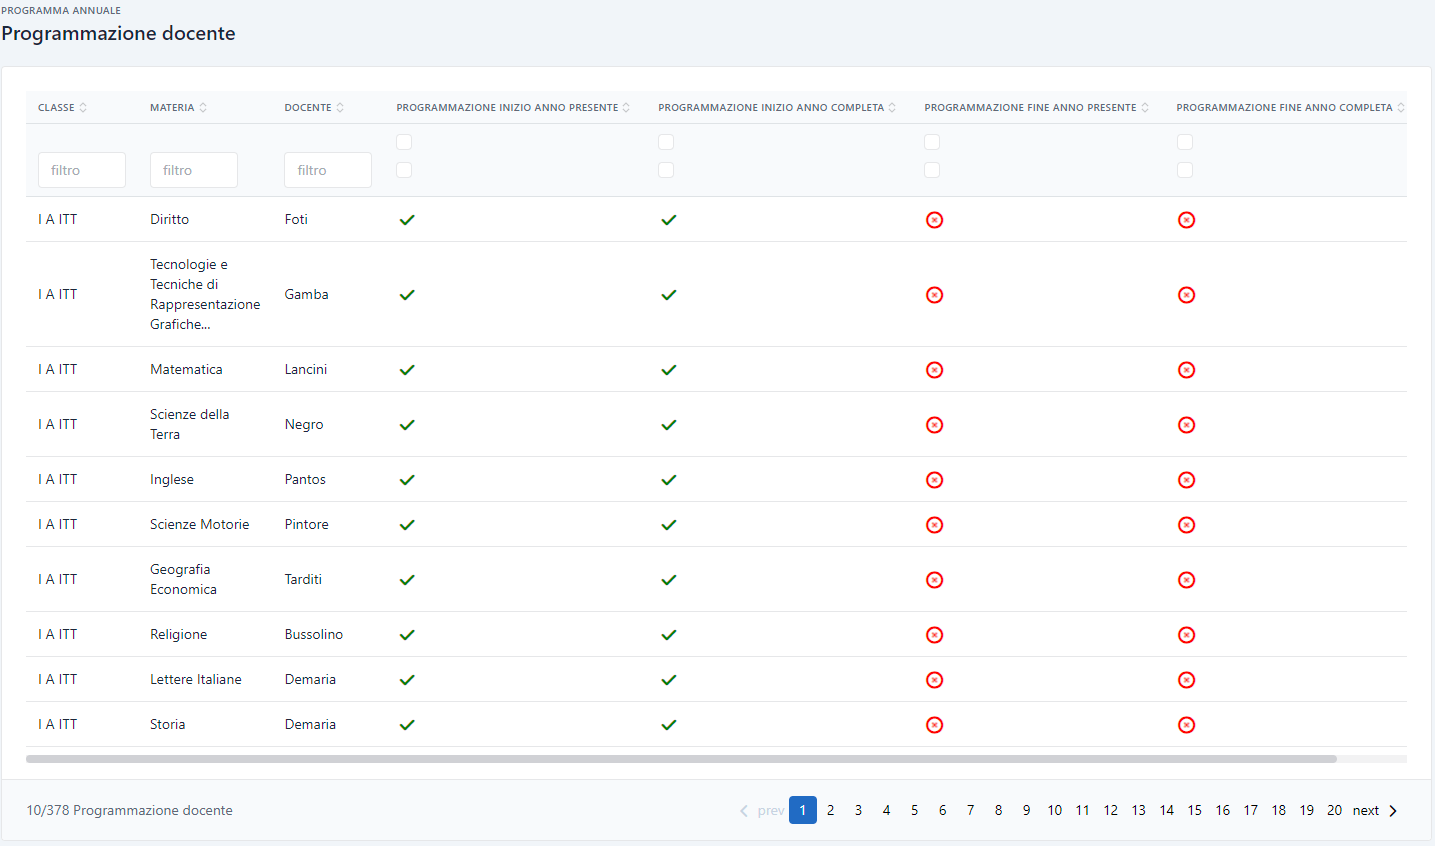
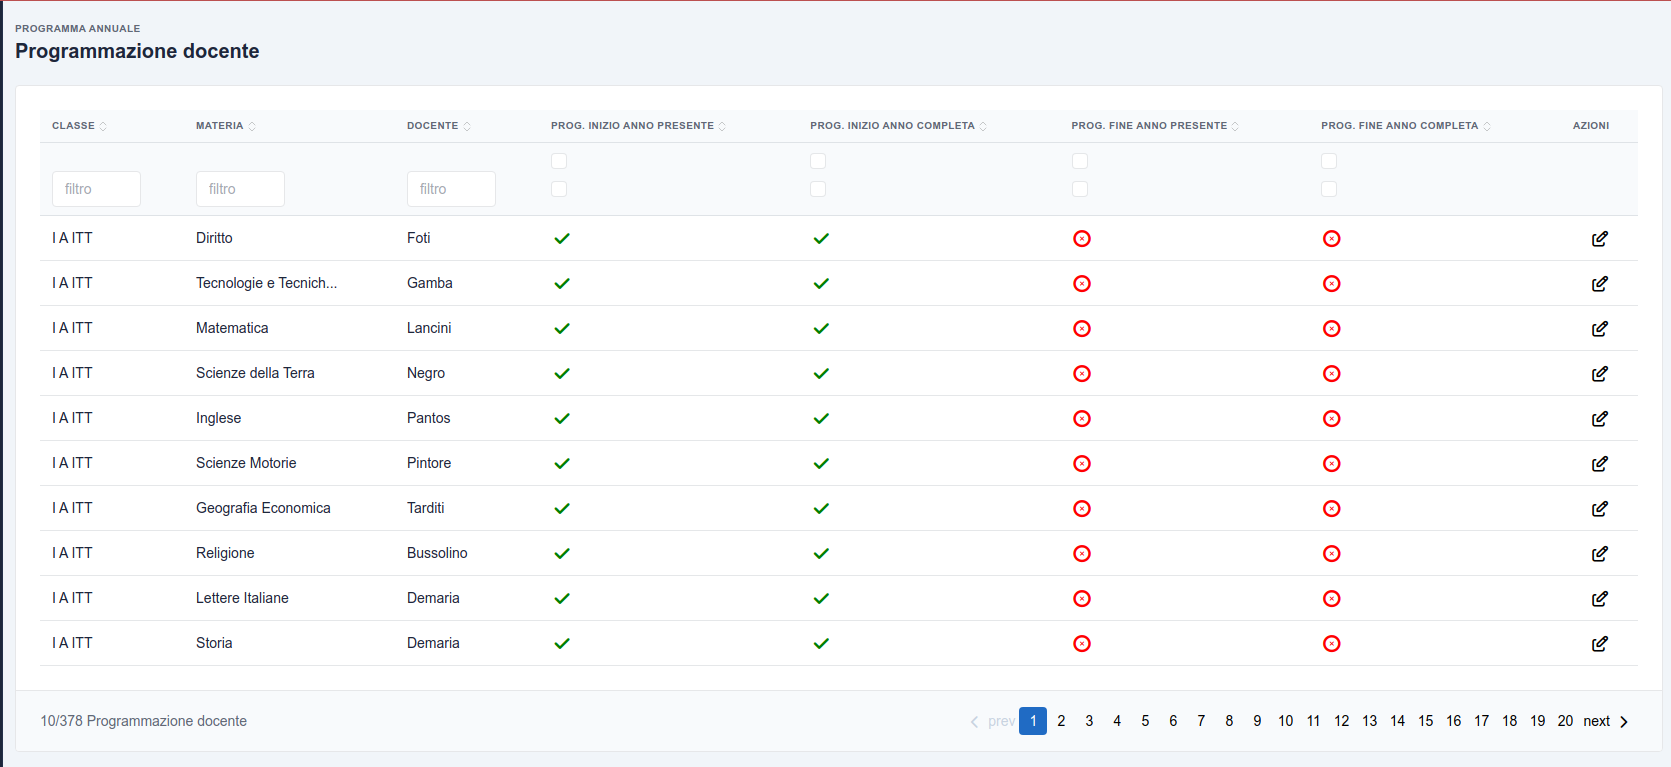
`fix#533`: Documentazione sezione Programma Annuale  (#550)

diff --git a/server_static/documentazione/programmazione_annuale.md b/server_static/documentazione/programmazione_annuale.md
@@ -2,57 +2,99 @@
     @import url(/css/doc-style.css);
 </style>
 
-## PROGRAMMAZIONE ANNUALE
+## INTRODUZIONE
 La sezione dedicata alla programmazione annuale è stata progettata per consentire ai docenti di creare template e pianificare la programmazione delle loro classi. Inoltre, è stata predisposta una sezione separata per la segreteria, che consente di stampare le programmazioni per tutte le classi.
 
 ## TEMPLATE DOCENTE
 
-La schermata template docente della sezione *PROGRAMMAZIONE ANNUALE* mostra una tabella con varie colonne contenenti la lista di tutte le programmazioni fatte fino a quel momento. In alto a destra vi è un bottone <span class="button blue">+ Aggiungi template</span> per creare nuovi template.
+La schermata template docente mostra una tabella con varie colonne contenenti la lista di tutte le programmazioni fatte fino a quel momento. In alto a destra vi è un bottone <span class="button blue">+ Aggiungi template</span> per creare nuovi template.
 
-![tabella_programmazioneannuale](/img/documentazione/programmazione-annuale/programmazione-annuale-01.png)
+![tabella_programmazioneannuale](/img/documentazione/programmazione-annuale/programmazione-annuale-01.png#img-doc)
 
 
 Contenuti delle colonne:
 
-- **NOME**: nome della programmazione
-- **MATERIA**: nome della materia
+- **NOME**: nome del template (si suggerisci di usare nomi mnemonici e possibilmente che sia facilmente identificabili dal docente)
+- **MATERIA**: nome della materia a cui il template è associato
 - **AZIONI**: per ogni programmazione sono presenti 3 azioni: aggiorna, duplica e elimina
   - **AGGIORNA**: cliccando sull'icona è possibile modificare il template selezionato. Una volta aggiornato, bisogna cliccare il pulsante "Aggiorna template" oppure "Cancel" per cancellare le modifiche.
   - **DUPLICA & CONDIVIDI**: cliccando sull'icona è possibile inviare e condividere il template selezionato. Bisognerà selezionare il docente a cui si vuole inviare nel menù a tendina.
   - **ELIMINA**: cliccando sull'icona è possibile eliminare il template.
 
 
-## nuovo template
-**COSA E' UN TEMPLATE?**: Un template è un modello predefinito che fornisce una struttura base su cui creare altri documenti. Nel nostro caso serve a creare documenti/file con la stessa struttura.
+## CREAZIONE NUOVO TEMPLATE
 
-**TEMPLATE ASSOCIATI AD UNA SOLA MATERIA**: I template sono associati ad una sola materia. Ciò significa che quando si crea un template per una specifica materia, il docente in programmaizone classe dovrà accedere alla classe corrispondente alla materia del template creato per utilizzarlo.
+Un **template** è un modello predefinito che fornisce una struttura base su cui creare la programmazione annuale per una data materia.
+Pertanto il docente può creare un template per ogni materia di sua competenza, che verrà poi riutilizzato durante la creazione della programmazione di una data classe.
+
+**NOTA**: I template sono associati ad una sola materia. Questo comportamento è voluto e serve per evitare errori durante la creazione della programmazione. Pertanto non sarà possibile commettere errori del tipo: assegno il template di Storia per la materia matematica.
+Da ciò ne consegue che durante la creazione della programmazione per una data materia, il docente avrà esclusivamente accesso agli eventuali template creati ed associati alla stessa materia.
 
 
-![tabella_programmazioneannuale](/img/documentazione/programmazione-annuale/programmazione-annuale-02.png)
+![tabella_programmazioneannuale](/img/documentazione/programmazione-annuale/programmazione-annuale-02.png#img-doc)
 
 - **NOME TEMPLATE**: nome del template
-- **MATERIA**: nome della materia
-- **LIBRO DI TESTO**: nome del libro di testo, bisogna aggiungere tutti i parametri richiesti nella riga sovrastante, dopo aver inserito tutti i parametri richiesti sarà possibile aggiungere un nuovo libro (con il tato **+** a destra del campo compilato) oppure eliminarlo.
-- **NOTE**: aggiunta di note della programmazione
-- **TRIMESTRE**: nella sezione trimestre si devono aggiungere tutti gli argomenti del trimestre
-- **PENTAMESTRE**: nella sezione pentamestre si devono aggiungere tutti gli argomenti del pentamestre
+- **MATERIA**: nome della materia a cui associare il template
+- **LIBRO DI TESTO**: informazioni complete relative ad uno o più libri di testo.
+- **NOTE**: note aggiuntive relative alla programmazione che saranno inserite nel documento finale
+- **TRIMESTRE**: nella sezione trimestre si devono aggiungere tutti gli argomenti, sotto argomenti e sotto-sotto argomenti del trimestre
+- **PENTAMESTRE**: esattamente uguale alla sezione trimestre ma riferita al pentamestre
+
+
+**NOTA1:** in fase progettuale è stato concordato uno schema fisso per l'inserimento dei libri di testo. Tale schema viene riportato nella maschera di inserimento e va rispettato in tutte le sue parti. In caso contrario verrà rifiutato l'inserimento del libro stesso.
+
+Vediamo alcuni esempi che rispettano il formalismo necessario:
+
+- **Baldino E.,Rondano R.,Spano A.,INTERNETworking - sistemi e reti  -,JUVENILIA SCUOLA,2021**
+- **Iacobelli C.,Cottone M.,Gaido E.,Dall idea alla startup,JUVENILIA SCUOLA,2022**
+- **Desideri A.,Codovini G.,Storia e storiografia 3,D’Anna,2023**
+
+**NOTA2:** una programmazione per essere accettata deve contenere almeno un argomento per il trimestre e almeno un argomento per il pentamestre.
+
+L'organizzazione è a tre livelli:
+
+1. Argomento: l'argomento principale che si vuole riportare in programmazione
+2. Sotto Argomento: argomento secondario relativo all'argomento in questione
+3. Sotto-Sotto Argomento: argomento terziario relativo al sotto argomento selezionato
+
+Per aggiungere nuovi argomenti, sotto argomenti o sotto-sotto argomenti basta premere sull'icona `+` nella maschera di inserimento.
+
+
+## CONDIVISIONE TEMPLATE
+
+Il sistema permette la condivisione di un template con altri docenti che insegnano la stessa materia.
+
+Quindi una volta selezionato un template, è possibile selezionare il nome del collega con cui vogliamo condividere un template.
+
+Premendo `Condividi Template` una copia esatta del template verrà creata ed assegnata al docente prima indicato.
+
+Da questo momento le due copie del template sono totalmente indipendenti l'una dall'altra.
+
+Si fa notare che è anche possibile condividere un template con se stessi, di fatto creandone una copia.
+
+
+![condivisione_template](/img/documentazione/programmazione-annuale/programmazione-annuale-05.png#img-doc)
 
 ## PROGRAMMAZIONE DOCENTE
-La schermata programmazione docente della sezione *PROGRAMMAZIONE ANNUALE* è una pagina per utilizzare i template precedentemente creati e visualizzare così la programmazione annuale aggiornata per ogni classe.
+La schermata programmazione docente riporta tutte le materie per ogni classe di insegnamento per le quali è necessario creare una programmazione annuale.
 
-![tabella_programmazioneannuale](/img/documentazione/programmazione-annuale/programmazione-annuale-03.png)
+![tabella_programmazioneannuale](/img/documentazione/programmazione-annuale/programmazione-annuale-03.png#img-doc)
 
 Descriviamo ora le colonne della tabella:
 - **CLASSE**: nome della classe
 - **MATERIA**: nome materia
 - **DOCENTE**: nome docente
-- **PROGRAMMAZIONE INIZIO/FINE ANNO PRESENTE/COMPLETA**: verrà visualizzata una spunta se la programmazione di inizio anno è stata aggiunta, in caso contrario una x rossa.
-- **AZIONI**: cliccando sull'icona sottostante sarà possibile creare o modificare il programma. Una volta finito, bisogna contrassegnarlo come completato con il selettore in basso a sinistra e confermare la scelta.
+- **PROGRAMMAZIONE INIZIO/FINE ANNO PRESENTE**: verrà visualizzata una spunta se la programmazione di inizio/fine anno è stata aggiunta, in caso contrario una x rossa.
+- **PROGRAMMAZIONE INIZIO/FINE ANNO COMPLETA**: verrà visualizzata una spunta se la programmazione di inizio/fine anno è stata marcata come pleta da parte del docente, in caso contrario una x rossa.
+- **AZIONI**: cliccando sull'icona sottostante sarà possibile creare o modificare il programma relativo al periodo scolastico corrente. Una volta finito, bisogna contrassegnarlo come completato con il selettore in basso a sinistra e confermare la scelta.
 - **FILTRI**: i filtri che sottostanno alle voci classe, materia e docente servono a filtrare le programmazioni in base al nome inserito. Ad esempio, se si desidera filtrare una determinata materia, basterà scrivere il nome della materia nella casella, così facendo compariranno solo le programmazioni per quella materia.
 - **CHECK BOX**: le check box presenti sotto le varie programmazioni servono a filtrare le varie programmazioni se sono presenti o no. La prima check box (in colonna) ti farà vedere solo i contenuti filtrati, mentre la seconda nasconde tutte le programmazioni presenti sotto quella voce.
 
 ## PROGRAMMAZIONE CLASSE
 
-![tabella_programmazioneannuale](/img/documentazione/programmazione-annuale/programmazione-annuale-04.png)
+Questa sezione è ad uso esclusivo della segreteria e riporta lo stato di tutte le programmazioni classe sia per il trimestre che per il pentamestre.
 
-La schermata programmazione classe della sezione *PROGRAMMAZIONE ANNUALE* è una pagina che mostra le programmazioni di tutte le classi, suddivise in inizio e fine anno. Se solo una delle due colonne è contrassegnata come completata (nella colonna azioni), vedremo solo un'icona della stampante; se entrambe le voci saranno contrassegnate come completate, compariranno due icone della stampante, rispettivamente per inizio e fine anno.
+Se la programmazione è completa (spunta verde) allora comparirà l'icona della stampante che permette di stampare il documento finale relativo al periodo selezionato.
+
+![tabella_programmazioneannuale](/img/documentazione/programmazione-annuale/programmazione-annuale-04.png#img-doc)
+

diff --git a/server_static/changelog/changelog.md b/server_static/changelog/changelog.md
@@ -1,3 +1,7 @@
+## v4.7.2 – 12 Maggio 2024
+- `fix#533`: Documentazione sezione Programma Annuale  (#550)
+- creata la documentazione per la sezione programmazione annuale
+
 ## v4.7.1 – 10 Maggio 2024
 - `fix#541`: Cleanup main branch (#551)    
 - rimosso tabler
